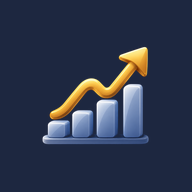
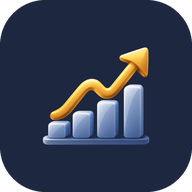
Add files via upload
New App Icon

diff --git a/sw.js b/sw.js
@@ -1,4 +1,4 @@
-const C='rasma-v4-3d-appicons';
+const C='rasma-v5-rounded-app-icons';
 const FILES=['./','index.html','manifest.webmanifest','icon-192.png','icon-512.png','rasma-logo-mark.png'];
 self.addEventListener('install',e=>{e.waitUntil(caches.open(C).then(c=>c.addAll(FILES)).then(()=>self.skipWaiting()))});
 self.addEventListener('activate',e=>{e.waitUntil(caches.keys().then(k=>Promise.all(k.filter(x=>x!==C).map(x=>caches.delete(x)))).then(()=>self.clients.claim()))});
